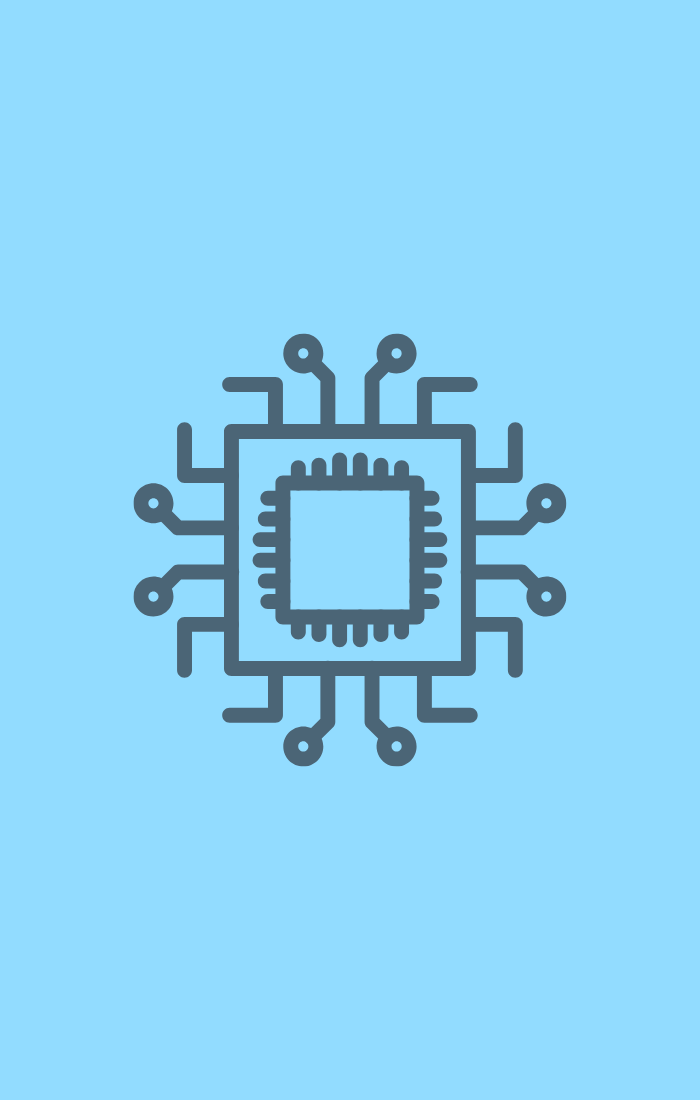
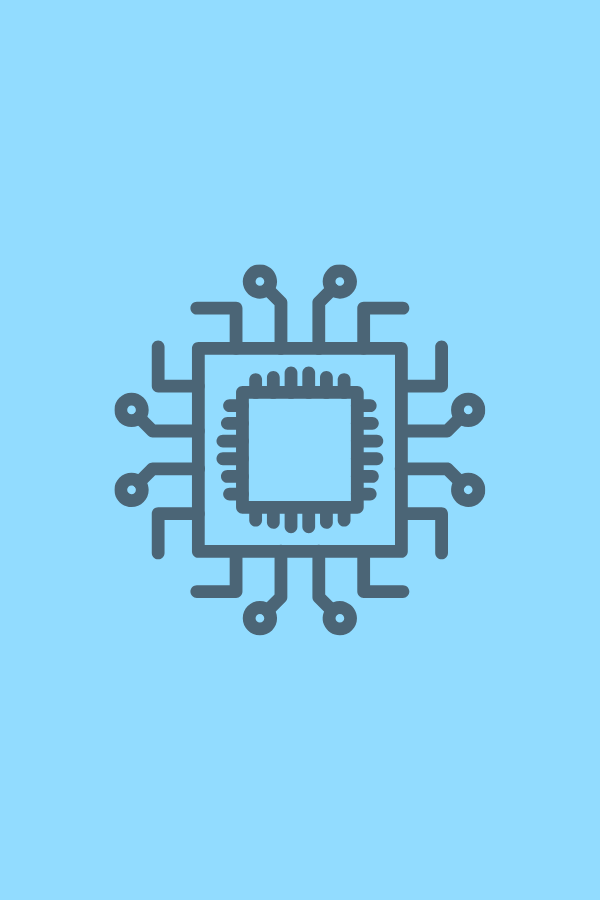
Arreglo de cartas en cada nivel

diff --git a/Documents/NetBeansProjects/Bits-O-Bots/src/JuegoMemoria/JuegoMemoriaBase.java b/Documents/NetBeansProjects/Bits-O-Bots/src/JuegoMemoria/JuegoMemoriaBase.java
@@ -34,10 +34,10 @@ import javax.swing.Box;
 
 public abstract class JuegoMemoriaBase extends JFrame {
 
-    private static final int ANCHO_CARTA = 90;
-    private static final int ALTO_CARTA = 135;
-    private static final int ESPACIO = 10;
-    private static final int MARGEN = 16;
+    private static final int ANCHO_CARTA = 86;
+    private static final int ALTO_CARTA = 112;
+    private static final int ESPACIO = 9;
+    private static final int MARGEN = 14;
 
     private static final int TIEMPO_OBSERVACION = 1500;
     private static final int PAUSA_FINAL = 500;
@@ -519,7 +519,7 @@ public abstract class JuegoMemoriaBase extends JFrame {
         panelTablero = panelCartas;
 
         contenedorCartas = new JPanel(
-        new java.awt.GridBagLayout()
+        new GridBagLayout()
     );
 
         contenedorCartas.setOpaque(false);
@@ -696,13 +696,6 @@ public abstract class JuegoMemoriaBase extends JFrame {
             contenidoCentral,
             BorderLayout.CENTER
     );
-    
-    panelCartas = new JPanel(null);
-    panelCartas.setOpaque(false);
-
-
-    panelTablero = panelCartas;
-    
     
 }
     
@@ -1591,11 +1584,6 @@ public abstract class JuegoMemoriaBase extends JFrame {
                         movimientos++;
                         actualizarMarcadores();
 
-                        lblMovimientos.setText(
-                                "Movimientos: "
-                                + movimientos
-                        );
-
                         comprobarPareja(
                                 partidaActual
                         );
@@ -1715,17 +1703,6 @@ public abstract class JuegoMemoriaBase extends JFrame {
             puntosNivel += 100;
             
             actualizarMarcadores();
-
-            lblPuntosNivel.setText(
-                    "Nivel: " + puntosNivel + " pts"
-            );
-
-            lblPuntosTotal.setText(
-                    "Total: "
-                    + (progreso.getPuntosTotales()
-                    + puntosNivel)
-                    + " pts"
-            );
 
             String nombre = nombresCartas[
                     valores[cartaA] - 1
@@ -2032,11 +2009,6 @@ public abstract class JuegoMemoriaBase extends JFrame {
 
                     segundos++;
                     actualizarMarcadores();
-
-                    lblTiempo.setText(
-                            "Tiempo: "
-                            + formatearTiempo(segundos)
-                    );
                 }
         );
 
@@ -2081,15 +2053,9 @@ public abstract class JuegoMemoriaBase extends JFrame {
                 segundos
         );
 
-        lblPuntosNivel.setText(
-                "Nivel: " + puntosNivel + " pts"
-        );
+        
 
-        lblPuntosTotal.setText(
-                "Total: "
-                + progreso.getPuntosTotales()
-                + " pts"
-        );
+
 
         lblMensaje.setText(
                 "¡Nivel completado!"
